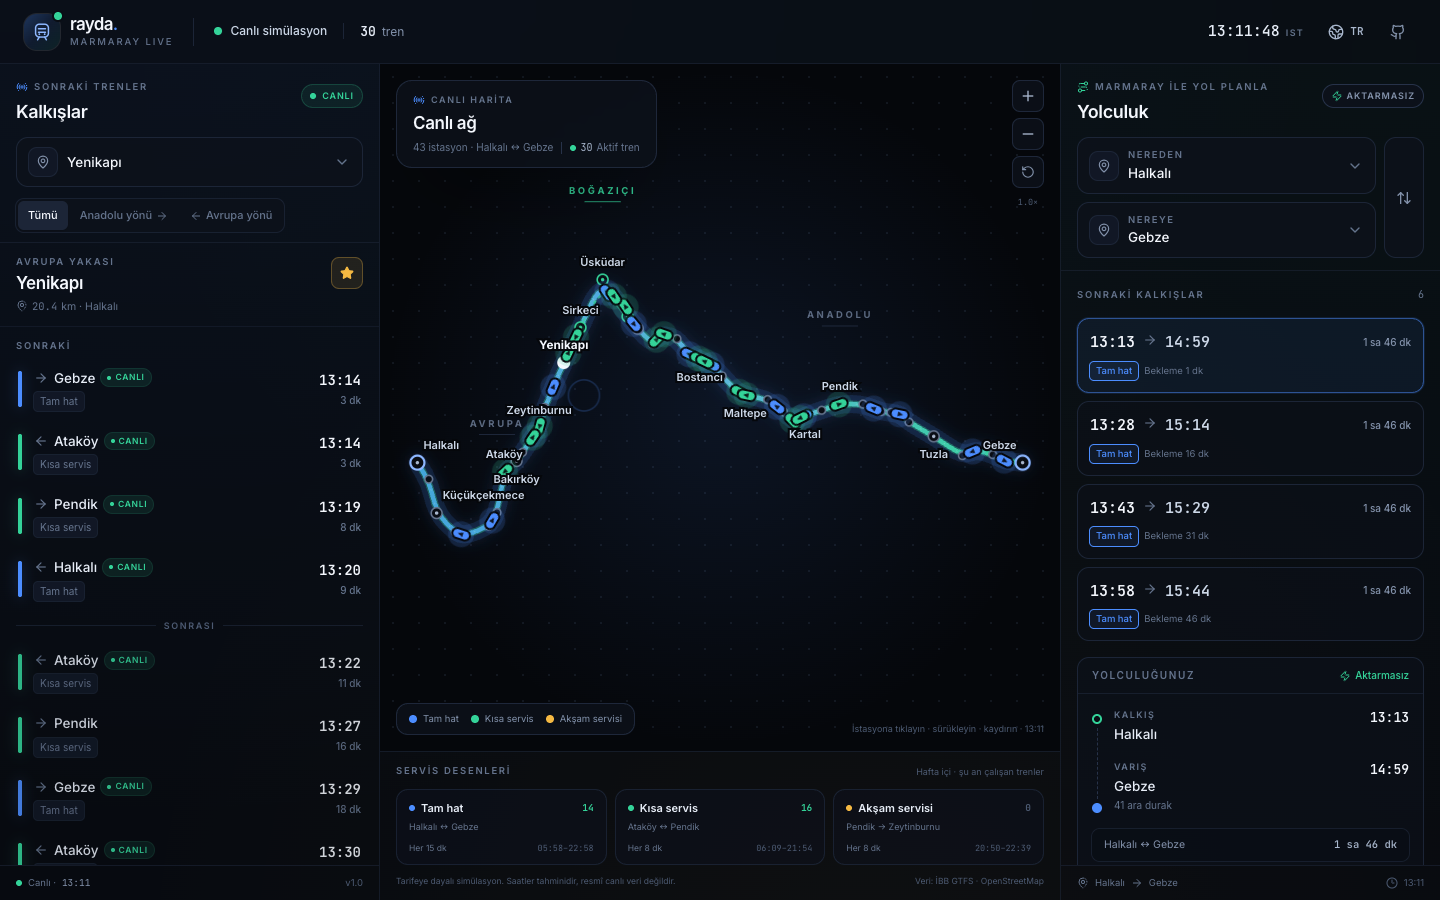
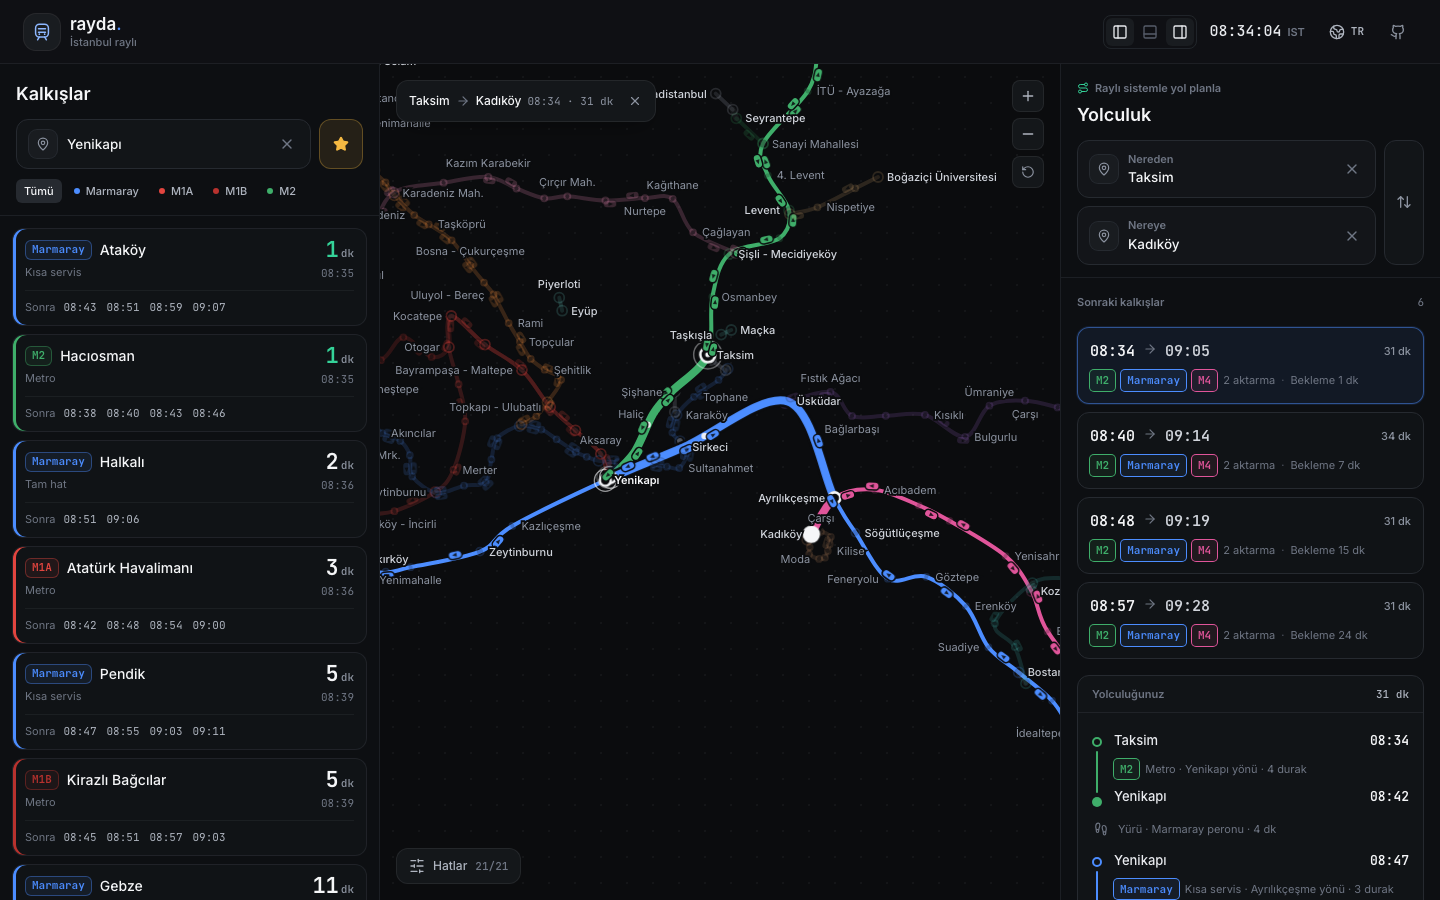
docs: retake README screenshots; shrink train markers when zoomed out

diff --git a/src/components/LineMap.tsx b/src/components/LineMap.tsx
@@ -440,6 +440,8 @@ export default function LineMap() {
 
   const visibleStations = orderedStations.filter((station) => !hiddenLines.has(station.lineId));
   const focused = journeyLegs.length > 0;
+  // Trains shrink when zoomed out so ~180 of them don't bury the lines, most on small screens.
+  const trainScale = k * Math.min(1, (compact ? 0.5 : 0.75) + 0.2 * (zoom - 1));
   const dim = (on: boolean) => (focused && !on ? 0.2 : 1);
   const marmarayPoints = linePoints.marmaray;
 
@@ -696,7 +698,7 @@ export default function LineMap() {
               }}
               className="cursor-pointer"
               opacity={dim(journeyLineIds.includes(train.lineId))}
-              transform={`translate(${x} ${y}) rotate(${angle}) scale(${k})`}
+              transform={`translate(${x} ${y}) rotate(${angle}) scale(${trainScale})`}
             >
               {isSelected && <circle r={13} fill="none" stroke="#F5F6F8" strokeWidth={1} opacity={0.6} />}
               <rect
